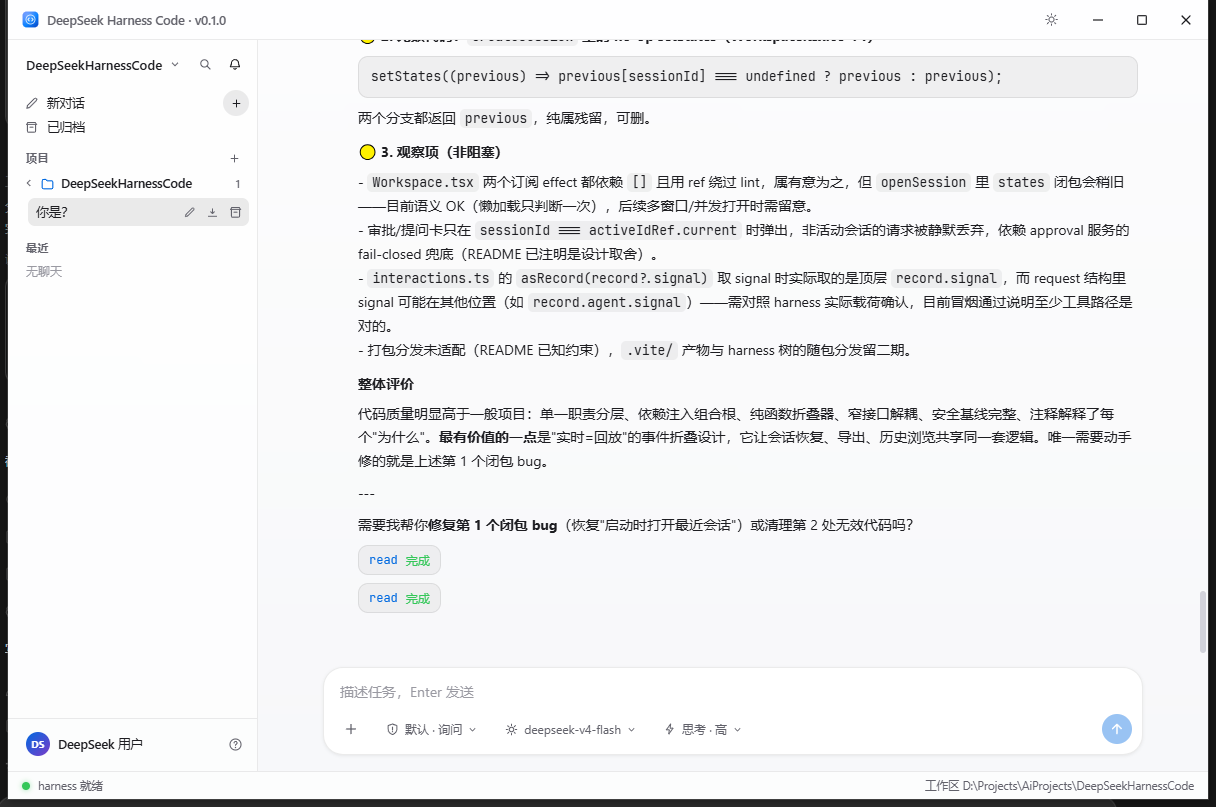
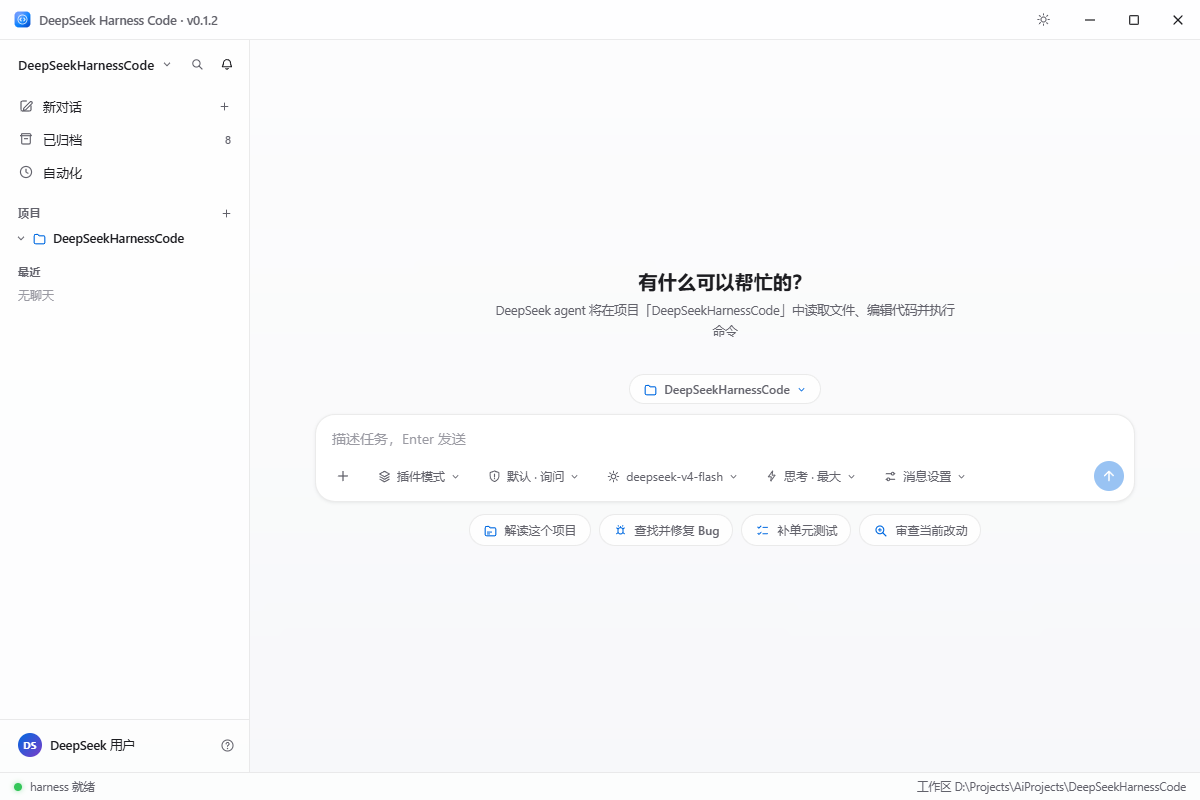
chore: 刷新 README 截图——统一为 main-dark/main-light/settings 三张，移除 -2 后缀旧图并修正引用

diff --git a/README.md b/README.md
@@ -13,11 +13,11 @@
 
 | 深色主题 · 对话 / 工具卡片 | 浅色主题 |
 |---|---|
-| ![深色主题](docs/screenshots/main-dark.png) | ![浅色主题](docs/screenshots/main-dark-2.png) |
+| ![深色主题](docs/screenshots/main-dark.png) | ![浅色主题](docs/screenshots/main-light.png) |
 
 设置页（模型服务 / API Key / 多供应商）：
 
-![设置页](docs/screenshots/settings-2.png)
+![设置页](docs/screenshots/settings.png)
 
 ## 能力概览
 
